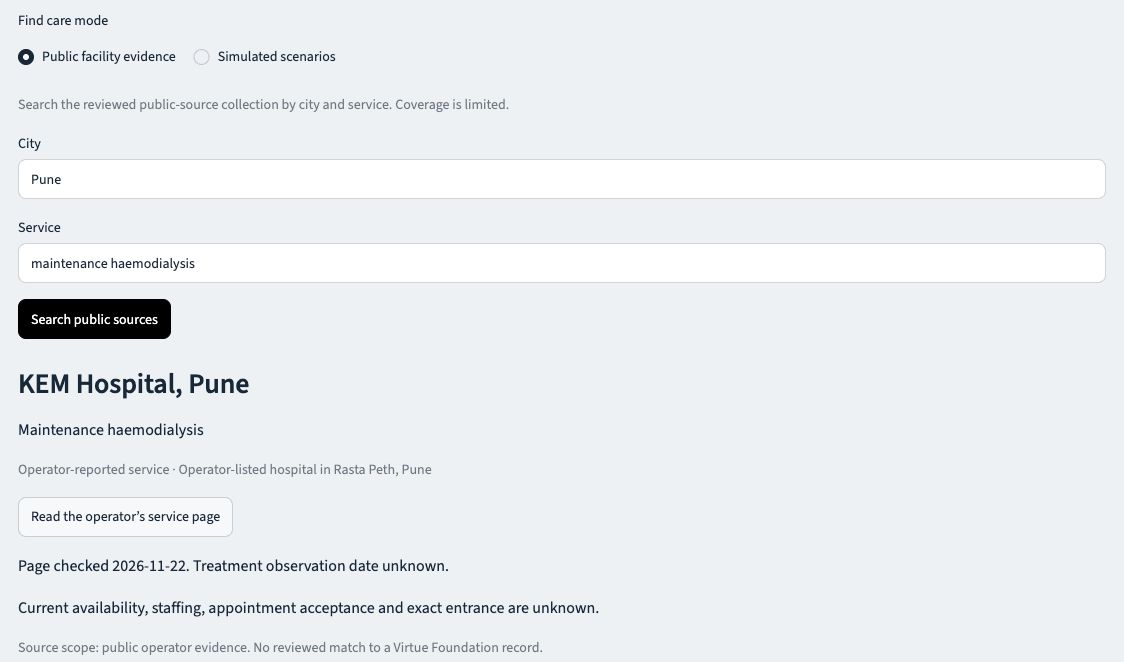
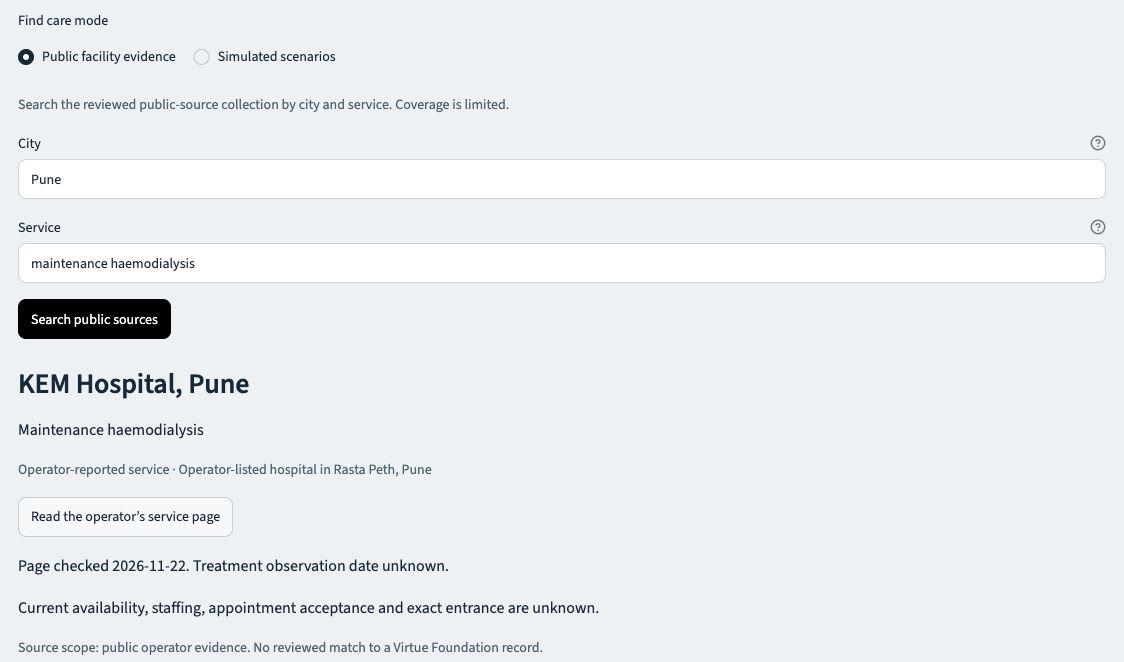
Refresh judge README for the hosted input recovery release

diff --git a/README.md b/README.md
@@ -8,11 +8,11 @@ A community health worker in Pune needs to find maintenance haemodialysis. Find 
 
 ## Try the real Pune lookup
 
-In the signed-in app, choose **Find care**. **Public facility evidence** opens with **Pune** under **City** and **maintenance haemodialysis** under **Service**. Select **Search public sources**. Open **Read the operator’s service page** on the KEM result. The page describes maintenance haemodialysis, and the result locates the hospital in Rasta Peth at the scope printed by the operator. The project checked the page on **November 22, 2026**. The treatment observation date, staffing, availability, appointment acceptance and patient entrance remain unknown. [KEM nephrology and dialysis page](https://www.kemhospitalpune.org/specialities/nephrology/) · [Signed-in release check](https://github.com/vzhu08/databricks-datathon/issues/319#issuecomment-7082597709)
+In the signed-in app, choose **Find care**. **Public facility evidence** opens with **Pune** under **City** and **maintenance haemodialysis** under **Service**. Select **Search public sources**. Open **Read the operator’s service page** on the KEM result. The page describes maintenance haemodialysis, and the result locates the hospital in Rasta Peth at the scope printed by the operator. The project checked the page on **November 22, 2026**. The treatment observation date, staffing, availability, appointment acceptance and patient entrance remain unknown. [KEM nephrology and dialysis page](https://www.kemhospitalpune.org/specialities/nephrology/) · [Signed-in release check](https://github.com/vzhu08/databricks-datathon/issues/363#issuecomment-7083674531)
 
 ![Signed-in Pune maintenance haemodialysis lookup showing KEM Hospital, its operator link and unknown staffing, appointment acceptance, availability and entrance.](docs/demo/screenshots/08-pune-public-search-hosted.jpg)
 
-*Signed-in Databricks capture from deployment `01f1e69700c21edca2c44cb40d648aa8`, source `2044508`. The card shows public operator evidence.*
+*Signed-in Databricks capture from deployment `01f1e6a2bc661e1fbba56b7ee979d65f`, source `5bf5588`. The card shows public operator evidence.*
 
 The bundled lookup can also run from the repository root:
 
@@ -20,11 +20,11 @@ The bundled lookup can also run from the repository root:
 python -m app.public_facility_search --place Pune --service 'maintenance haemodialysis'
 ```
 
-General **dialysis** returns KEM and Jehangir Hospital in collection order. Maintenance haemodialysis returns only KEM because its bundled claim explicitly names that service. This search reads two operator-published claims. A miss means the collection has no relevant claim. The results carry no distance, acceptance or availability rank, and no reviewed linkage to named Virtue Foundation rows. [Jehangir nephrology page](https://www.jehangirhospital.com/nephrology-sp/) · [Search scope and reproduction](app/public_facility_search/README.md)
+General **dialysis**, including **kidney dialysis?** in Pune, returns KEM and Jehangir Hospital in collection order. Maintenance haemodialysis returns only KEM because its bundled claim explicitly names that service. This search reads two operator-published claims. A miss means the collection has no relevant claim and offers a concrete retry. Blank fields and over-limit input get a validation message. A rejected submit clears the previous hospital results. The results carry no distance, acceptance or availability rank, and no reviewed linkage to named Virtue Foundation rows. [Jehangir nephrology page](https://www.jehangirhospital.com/nephrology-sp/) · [Search scope and reproduction](app/public_facility_search/README.md)
 
 ### Signed-in presenter and offline notebook
 
-The app opens on **Check symptoms**. The assessment provider is off on this release. A symptom description stays in the visit and receives no assessment. **Public facility evidence** is a separate manual city-and-service search. It uses the fields you enter there and makes no provider call. The signed-in release on **November 22, 2026** used Databricks Free Edition. Its national count card uses published aggregates from the real VF run. [Edition and VF SQL verification](https://github.com/vzhu08/databricks-datathon/issues/336#issuecomment-7082010831) · [Hosted KEM acceptance](https://github.com/vzhu08/databricks-datathon/issues/319#issuecomment-7082597709)
+The app opens on **Check symptoms**. The assessment provider is off on this release. A symptom description stays in the visit and receives no assessment. **Public facility evidence** is a separate manual city-and-service search. It uses the fields you enter there and makes no provider call. The signed-in release on **November 22, 2026** used Databricks Free Edition. Its national count card uses published aggregates from the real VF run. In the separate simulated record lookup, ambiguous or negated PIN text prompts the user for one current location. [Edition and VF SQL verification](https://github.com/vzhu08/databricks-datathon/issues/336#issuecomment-7082010831) · [Hosted input and recovery checks](https://github.com/vzhu08/databricks-datathon/issues/363#issuecomment-7083674531)
 
[1 lines of base64/hex data omitted]
 
@@ -194,7 +194,7 @@ For example, nearest first took the minute-45 dialysis slot for a routine reques
 | --- | --- |
 | **Real national dataset** | The frozen Delta v0 replay preserves **10,088 original occurrences**, including duplicate occurrences, with **10,077 distinct upstream IDs**. The directory v4 readback places **2,524** in the campus category, **7,418** in the area-only category and **146** in unresolved. These are directory classes. Route-ready destinations require a separate check. [Directory readback](https://github.com/vzhu08/databricks-datathon/issues/160#issuecomment-7075940482) |
 | **Real service evidence** | The independently recounted comparison found **186 external leads** among **30,264 occurrence/service decisions**. All 30,264 remained unconfirmed in that edition. The frozen 30-case sample still awaits independent human review and accuracy measurement. [Replay and readback](https://github.com/vzhu08/databricks-datathon/issues/168#issuecomment-7075091984) |
-| **Hosted and checked** | Assessment-off symptom screen, separate public-source Pune lookup and national named-location counts at `2044508`. The later release `31575d1` returned the same KEM result in normal hosted navigation, with the assessment still off. The earlier presenter check covered the synthetic recommendation, ordinary-car routing and Pune edition 1. [Public lookup](https://github.com/vzhu08/databricks-datathon/issues/319#issuecomment-7082597709) · [Later release check](https://github.com/vzhu08/databricks-datathon/issues/345#issuecomment-7083065881) · [Earlier presenter](https://github.com/vzhu08/databricks-datathon/issues/304#issuecomment-7082157852) |
+| **Hosted and checked** | Assessment-off symptom screen, separate public-source Pune lookup and national named-location counts at `5bf5588`. The later release `31575d1` returned the same KEM result in normal hosted navigation, with the assessment still off. The earlier presenter check covered the synthetic recommendation, ordinary-car routing and Pune edition 1. [Public lookup](https://github.com/vzhu08/databricks-datathon/issues/363#issuecomment-7083674531) · [Later release check](https://github.com/vzhu08/databricks-datathon/issues/345#issuecomment-7083065881) · [Earlier presenter](https://github.com/vzhu08/databricks-datathon/issues/304#issuecomment-7082157852) |
 | **Separate release checks** | The four-care filmed model uses the offline Windows presenter and modeled travel. Live Storm routing passed merged fixture and fake-transport checks, then one signed-in road-time comparison on release `31575d1`. On that run 6 of 24 eligible pickup-to-site pairs returned a usable road estimate. With only those routes, nearest first placed 53/120 and the exact planner 59/120 modeled requests. The app filled no missing route with modeled travel, so these counts reflect that run’s limited route coverage and stand apart from the modeled results above. The notebook also retains a separate 120-request control with invented sites. [Signed-in road-time check](https://github.com/vzhu08/databricks-datathon/issues/345#issuecomment-7083065881) · [Public-screen release queue](https://github.com/vzhu08/databricks-datathon/issues/350) · [Final Storm take](https://github.com/vzhu08/databricks-datathon/issues/354) · [Offline notebook receipt](https://github.com/vzhu08/databricks-datathon/issues/307#issuecomment-7082763710) |
 
 The offline evidence walkthrough uses approved display files. Real source snapshots and Marketplace rows stay outside Git. [Offline walkthrough](app/facility_evidence_demo/README.md) · [Search contract](docs/implementation/SEARCH_CONTRACT.md) · [Release board](docs/implementation/OWNERSHIP.md)
